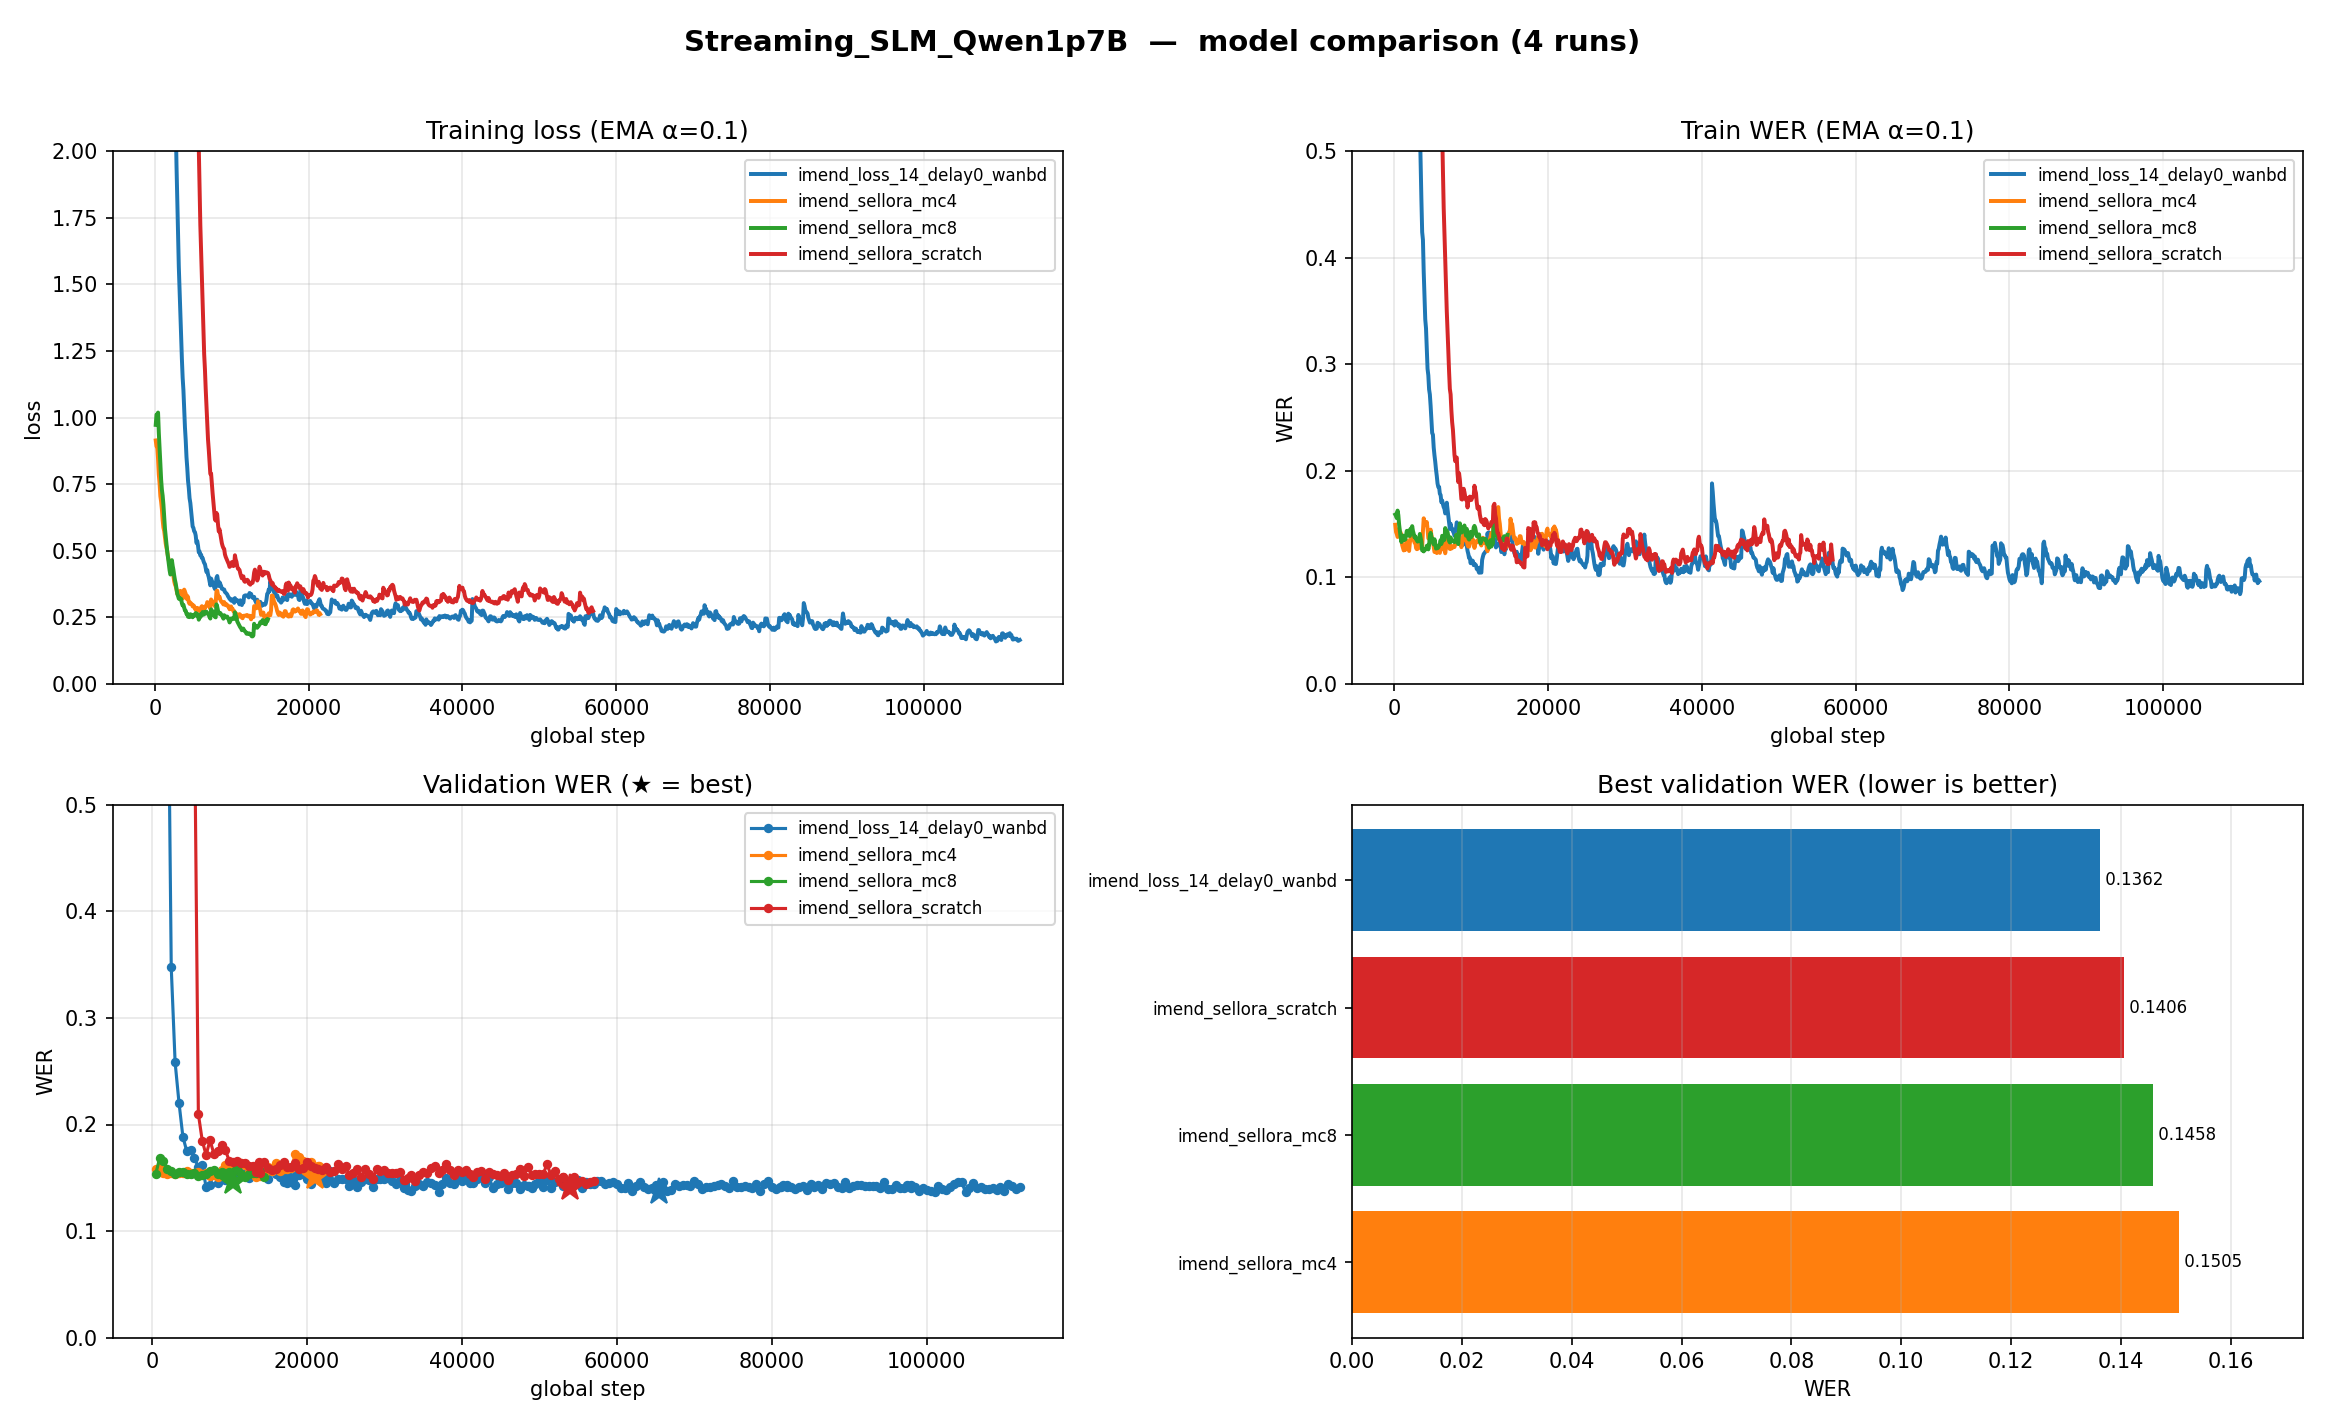
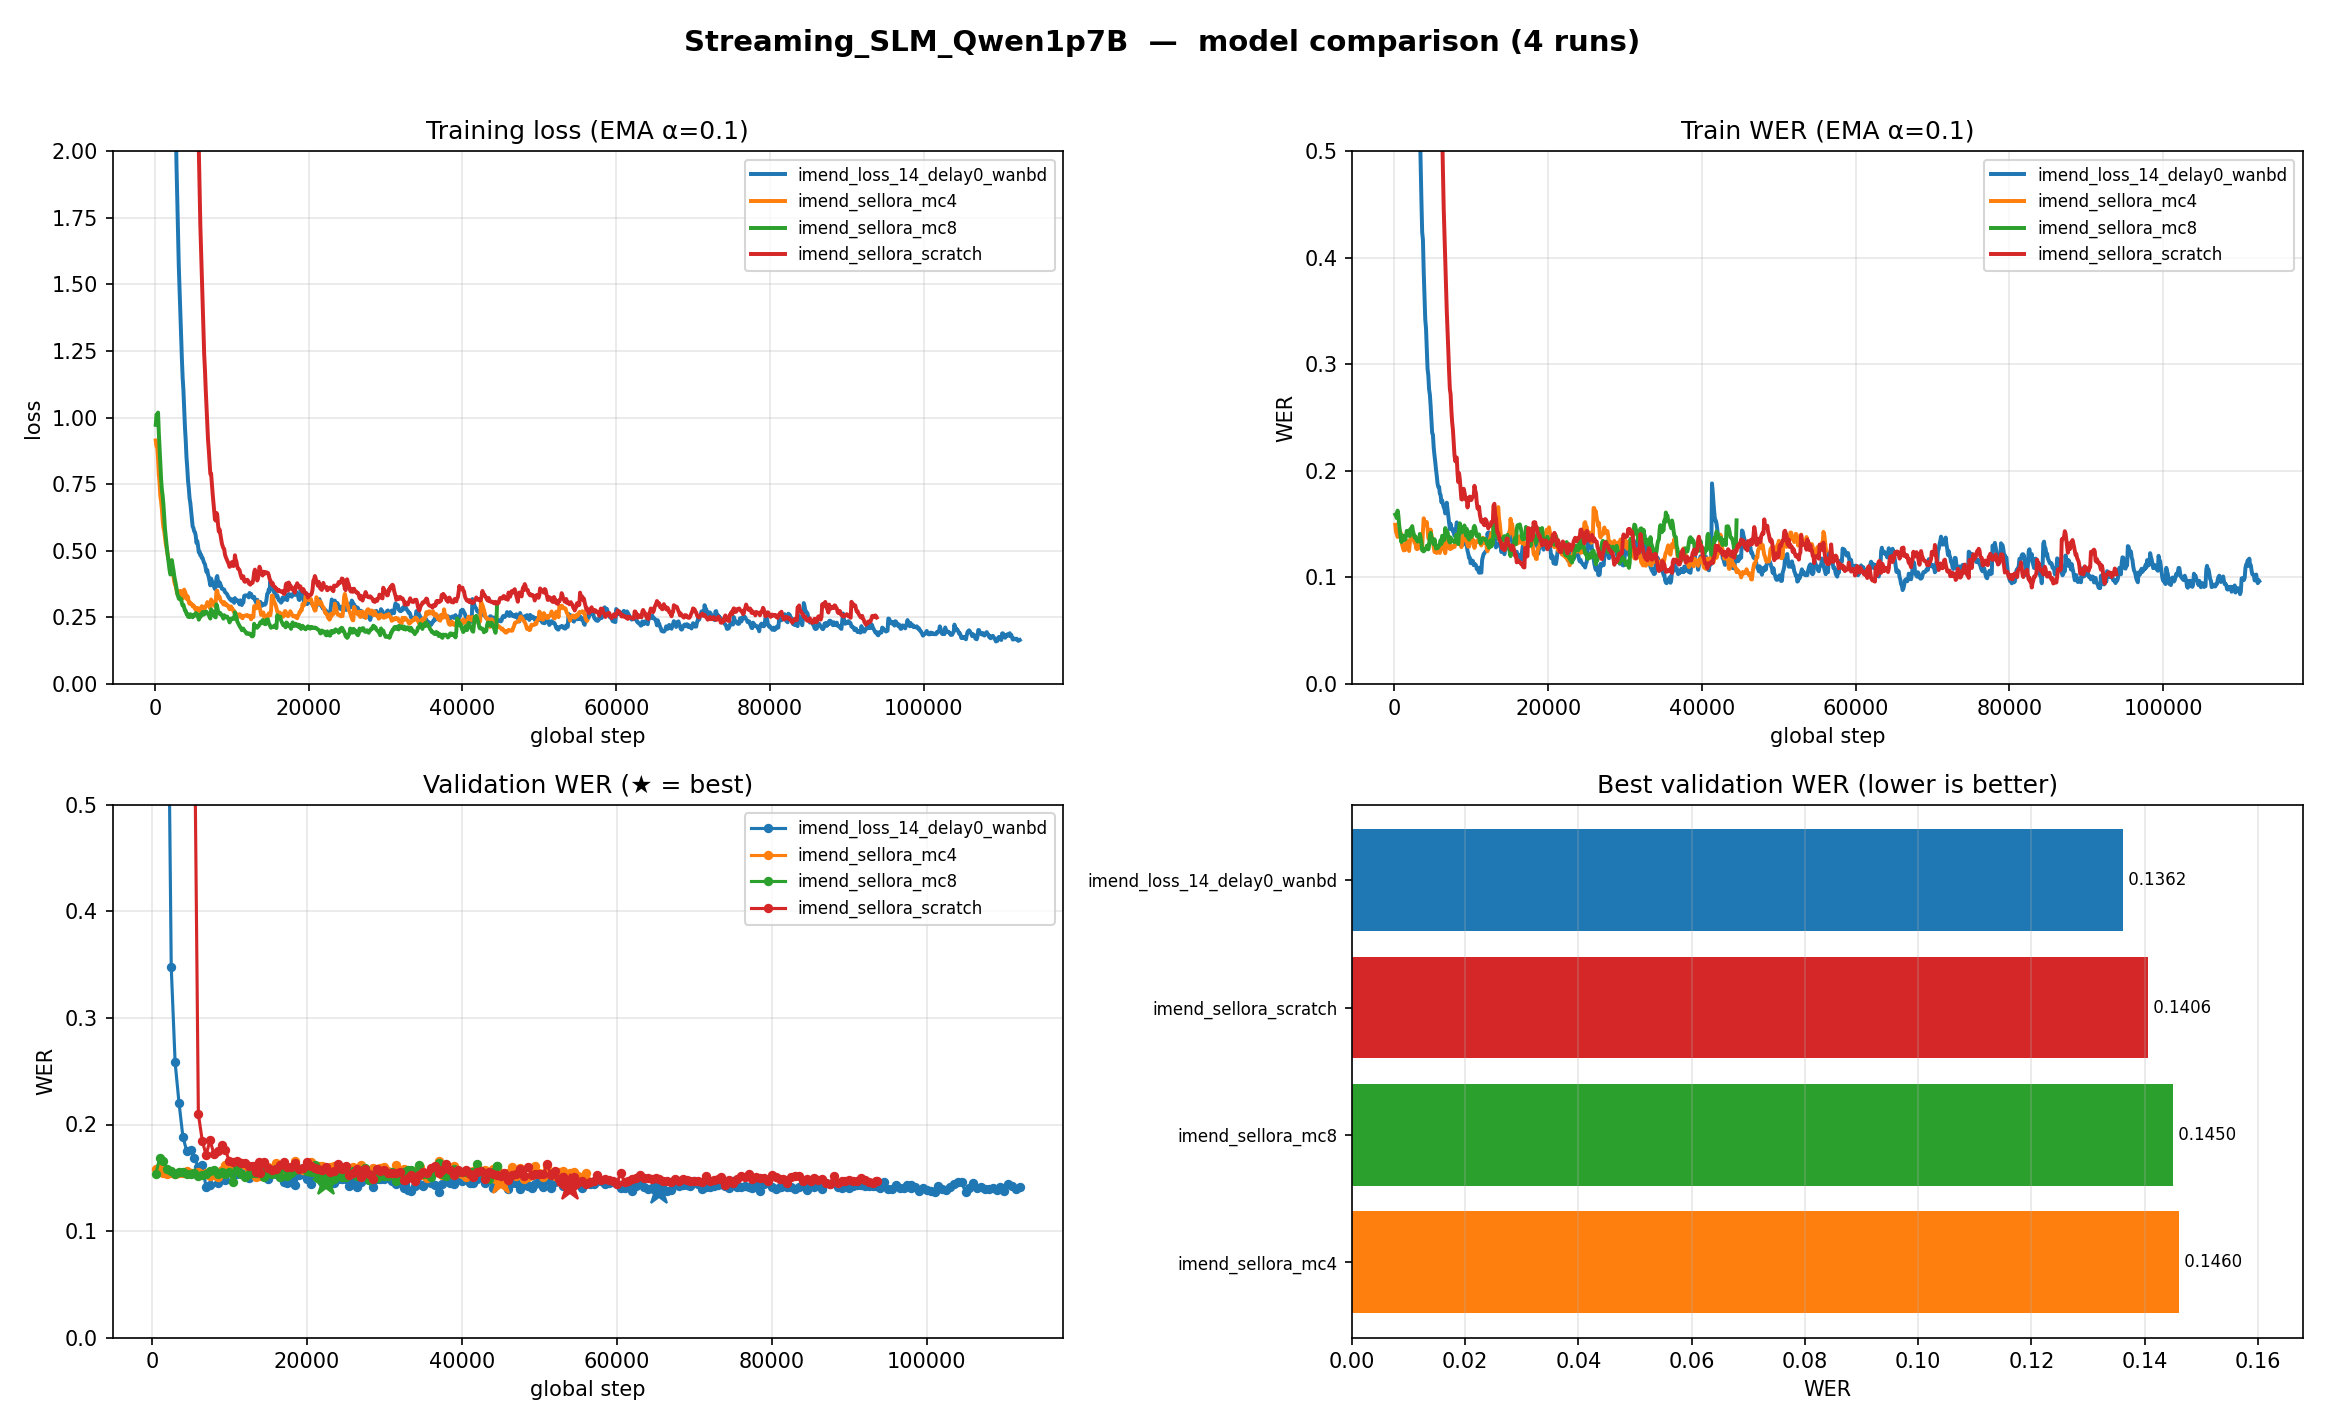
CHAT CE: prealigned manifest export + lhotse sample_id + encoder init

diff --git a/scripts/asr_aligner/export_prealigned_word_alignments.py b/scripts/asr_aligner/export_prealigned_word_alignments.py
@@ -1,0 +1,129 @@
+# Copyright (c) 2025, NVIDIA CORPORATION & AFFILIATES.  All rights reserved.
+#
+# Licensed under the Apache License, Version 2.0 (the "License");
+# you may not use this file except in compliance with the License.
+# You may obtain a copy of the License at
+#
+#     http://www.apache.org/licenses/LICENSE-2.0
+#
+# Unless required by applicable law or agreed to in writing, software
+# distributed under the License is distributed on an "AS IS" BASIS,
+# WITHOUT WARRANTIES OR CONDITIONS OF ANY KIND, either express or implied.
+# See the License for the specific language governing permissions and
+# limitations under the License.
+
+"""Export word-level alignments from offline/pre-aligned Lhotse manifests.
+
+Reads the same ``input_cfg`` YAML used by streaming_stt / imend (cuts carry
+``custom.alignments`` with per-word start/end times) and writes the
+``{file_id: {"starts": [...], "ends": [...]}}`` JSON shards expected by
+:class:`~nemo.collections.asr.parts.submodules.external_word_aligner.PrecomputedWordForcedAligner`.
+
+This avoids re-running Qwen forced alignment when the training manifest is
+already Qwen-pre-aligned.
+
+Example (single process):
+    python scripts/asr_aligner/export_prealigned_word_alignments.py \\
+        --input-cfg /lustre/fsw/.../v1p1_recombined_original_layout_iad_s3_audio.yaml \\
+        --output /results/chat_extaligner_ce_granary/qwen_word_aligns/v1p1_train
+
+Sharded (8-way) export on a single node:
+    python ... --num-shards 8 --shard-index \$SLURM_PROCID
+"""
+
+from __future__ import annotations
+
+import argparse
+import json
+import os
+from typing import Dict, Iterator, List, Optional, Tuple
+
+from omegaconf import OmegaConf
+
+
+def parse_args():
+    p = argparse.ArgumentParser(description=__doc__, formatter_class=argparse.RawDescriptionHelpFormatter)
+    p.add_argument('--input-cfg', required=True, help='Lhotse input_cfg YAML (same as imend data.train_ds.input_cfg).')
+    p.add_argument(
+        '--output',
+        required=True,
+        help='Output DIRECTORY. Writes shard_XXXX.json; point external_aligner.alignments_path here.',
+    )
+    p.add_argument('--num-shards', type=int, default=1)
+    p.add_argument('--shard-index', type=int, default=0)
+    p.add_argument('--limit', type=int, default=None, help='Process at most N cuts (debug).')
+    p.add_argument('--sample-rate', type=int, default=16000, help='Resample cuts to this rate before iteration.')
+    return p.parse_args()
+
+
+def _file_id(path: str) -> str:
+    return os.path.splitext(os.path.basename(str(path)))[0]
+
+
+def _cut_file_id(cut) -> str:
+    if cut.recording is not None and cut.recording.sources:
+        src = cut.recording.sources[0].source
+        if src:
+            return _file_id(src)
+    return _file_id(cut.id)
+
+
+def _iter_cut_alignments(cut) -> Optional[Tuple[List[float], List[float]]]:
+    custom = cut.custom or {}
+    raw = custom.get('alignments', [])
+    if not raw:
+        return None
+    starts: List[float] = []
+    ends: List[float] = []
+    for item in raw:
+        if not isinstance(item, dict):
+            continue
+        if 'start_time' not in item:
+            continue
+        starts.append(float(item['start_time']))
+        ends.append(float(item.get('end_time', item['start_time'])))
+    if not starts:
+        return None
+    return starts, ends
+
+
+def main():
+    args = parse_args()
+
+    from nemo.collections.common.data.lhotse import read_cutset_from_config
+
+    config = OmegaConf.create({'input_cfg': args.input_cfg, 'sample_rate': args.sample_rate})
+    cuts, _ = read_cutset_from_config(config)
+
+    out: Dict[str, Dict[str, List[float]]] = {}
+    n_seen = 0
+    n_written = 0
+    n_missing = 0
+
+    for i, cut in enumerate(cuts):
+        if args.num_shards > 1 and (i % args.num_shards) != args.shard_index:
+            continue
+        if args.limit is not None and n_seen >= args.limit:
+            break
+        n_seen += 1
+        times = _iter_cut_alignments(cut)
+        if times is None:
+            n_missing += 1
+            continue
+        starts, ends = times
+        out[_cut_file_id(cut)] = {'starts': starts, 'ends': ends}
+        n_written += 1
+
+    os.makedirs(args.output, exist_ok=True)
+    out_path = os.path.join(args.output, f'shard_{args.shard_index:04d}.json')
+    with open(out_path, 'w', encoding='utf-8') as f:
+        json.dump(out, f)
+
+    print(
+        f"[export-prealigned] shard {args.shard_index}/{args.num_shards}: "
+        f"wrote {n_written} alignments ({n_missing} cuts missing alignments, {n_seen} scanned) -> {out_path}"
+    )
+
+
+if __name__ == '__main__':
+    main()

diff --git a/nemo/collections/asr/data/audio_to_text_lhotse.py b/nemo/collections/asr/data/audio_to_text_lhotse.py
@@ -49,7 +49,7 @@ class LhotseSpeechToTextBpeDataset(torch.utils.data.Dataset):
             'sample_id': NeuralType(tuple('B'), LengthsType(), optional=True),
         }
 
-    def __init__(self, tokenizer: TokenizerSpec, return_cuts: bool = False):
+    def __init__(self, tokenizer: TokenizerSpec, return_cuts: bool = False, return_sample_id: bool = False):
         super().__init__()
         self.tokenizer = TokenizerWrapper(tokenizer)
         self.use_ais_get_batch = os.environ.get("USE_AIS_GET_BATCH", "False").lower() == "true"
@@ -69,6 +69,15 @@ class LhotseSpeechToTextBpeDataset(torch.utils.data.Dataset):
             self.load_audio = AudioSamples(fault_tolerant=True)
 
         self.return_cuts = return_cuts
+        self.return_sample_id = return_sample_id
+
+    @staticmethod
+    def _cut_file_id(cut) -> str:
+        if cut.recording is not None and cut.recording.sources:
+            src = cut.recording.sources[0].source
+            if src:
+                return os.path.splitext(os.path.basename(str(src)))[0]
+        return os.path.splitext(os.path.basename(str(cut.id)))[0]
 
     def __getitem__(self, cuts) -> Tuple[torch.Tensor, ...]:
         audio, audio_lens, cuts = self.load_audio(cuts)
@@ -86,4 +95,7 @@ class LhotseSpeechToTextBpeDataset(torch.utils.data.Dataset):
         tokens = collate_vectors(tokens, padding_value=0)
         if self.return_cuts:
             return audio, audio_lens, tokens, token_lens, cuts.drop_in_memory_data()
+        if self.return_sample_id:
+            sample_ids = [self._cut_file_id(c) for c in cuts]
+            return audio, audio_lens, tokens, token_lens, sample_ids
         return audio, audio_lens, tokens, token_lens

diff --git a/nemo/collections/asr/models/rnnt_models.py b/nemo/collections/asr/models/rnnt_models.py
@@ -1515,10 +1515,14 @@ class EncDecRNNTModel(ASRModel, ASRModuleMixin, ExportableEncDecModel, ASRTransc
         file_ids = []
         for sid in ids:
             fid = None
-            if get is not None:
+            if isinstance(sid, str):
+                fid = os.path.splitext(os.path.basename(sid))[0]
+            elif get is not None:
                 try:
                     entry = get(int(sid))
-                    fid = getattr(entry, 'audio_file', None) or getattr(entry, 'id', None)
+                    apath = getattr(entry, 'audio_file', None) or getattr(entry, 'id', None)
+                    if apath is not None:
+                        fid = os.path.splitext(os.path.basename(str(apath)))[0]
                 except Exception:
                     fid = None
             file_ids.append(fid)

diff --git a/nemo/collections/asr/models/rnnt_bpe_models.py b/nemo/collections/asr/models/rnnt_bpe_models.py
@@ -527,6 +527,7 @@ class EncDecRNNTBPEModel(EncDecRNNTModel, ASRBPEMixin):
                 dataset=LhotseSpeechToTextBpeDataset(
                     tokenizer=self.tokenizer,
                     return_cuts=config.get("do_transcribe", False),
+                    return_sample_id=config.get("return_sample_id", False),
                 ),
                 tokenizer=self.tokenizer,
             )
